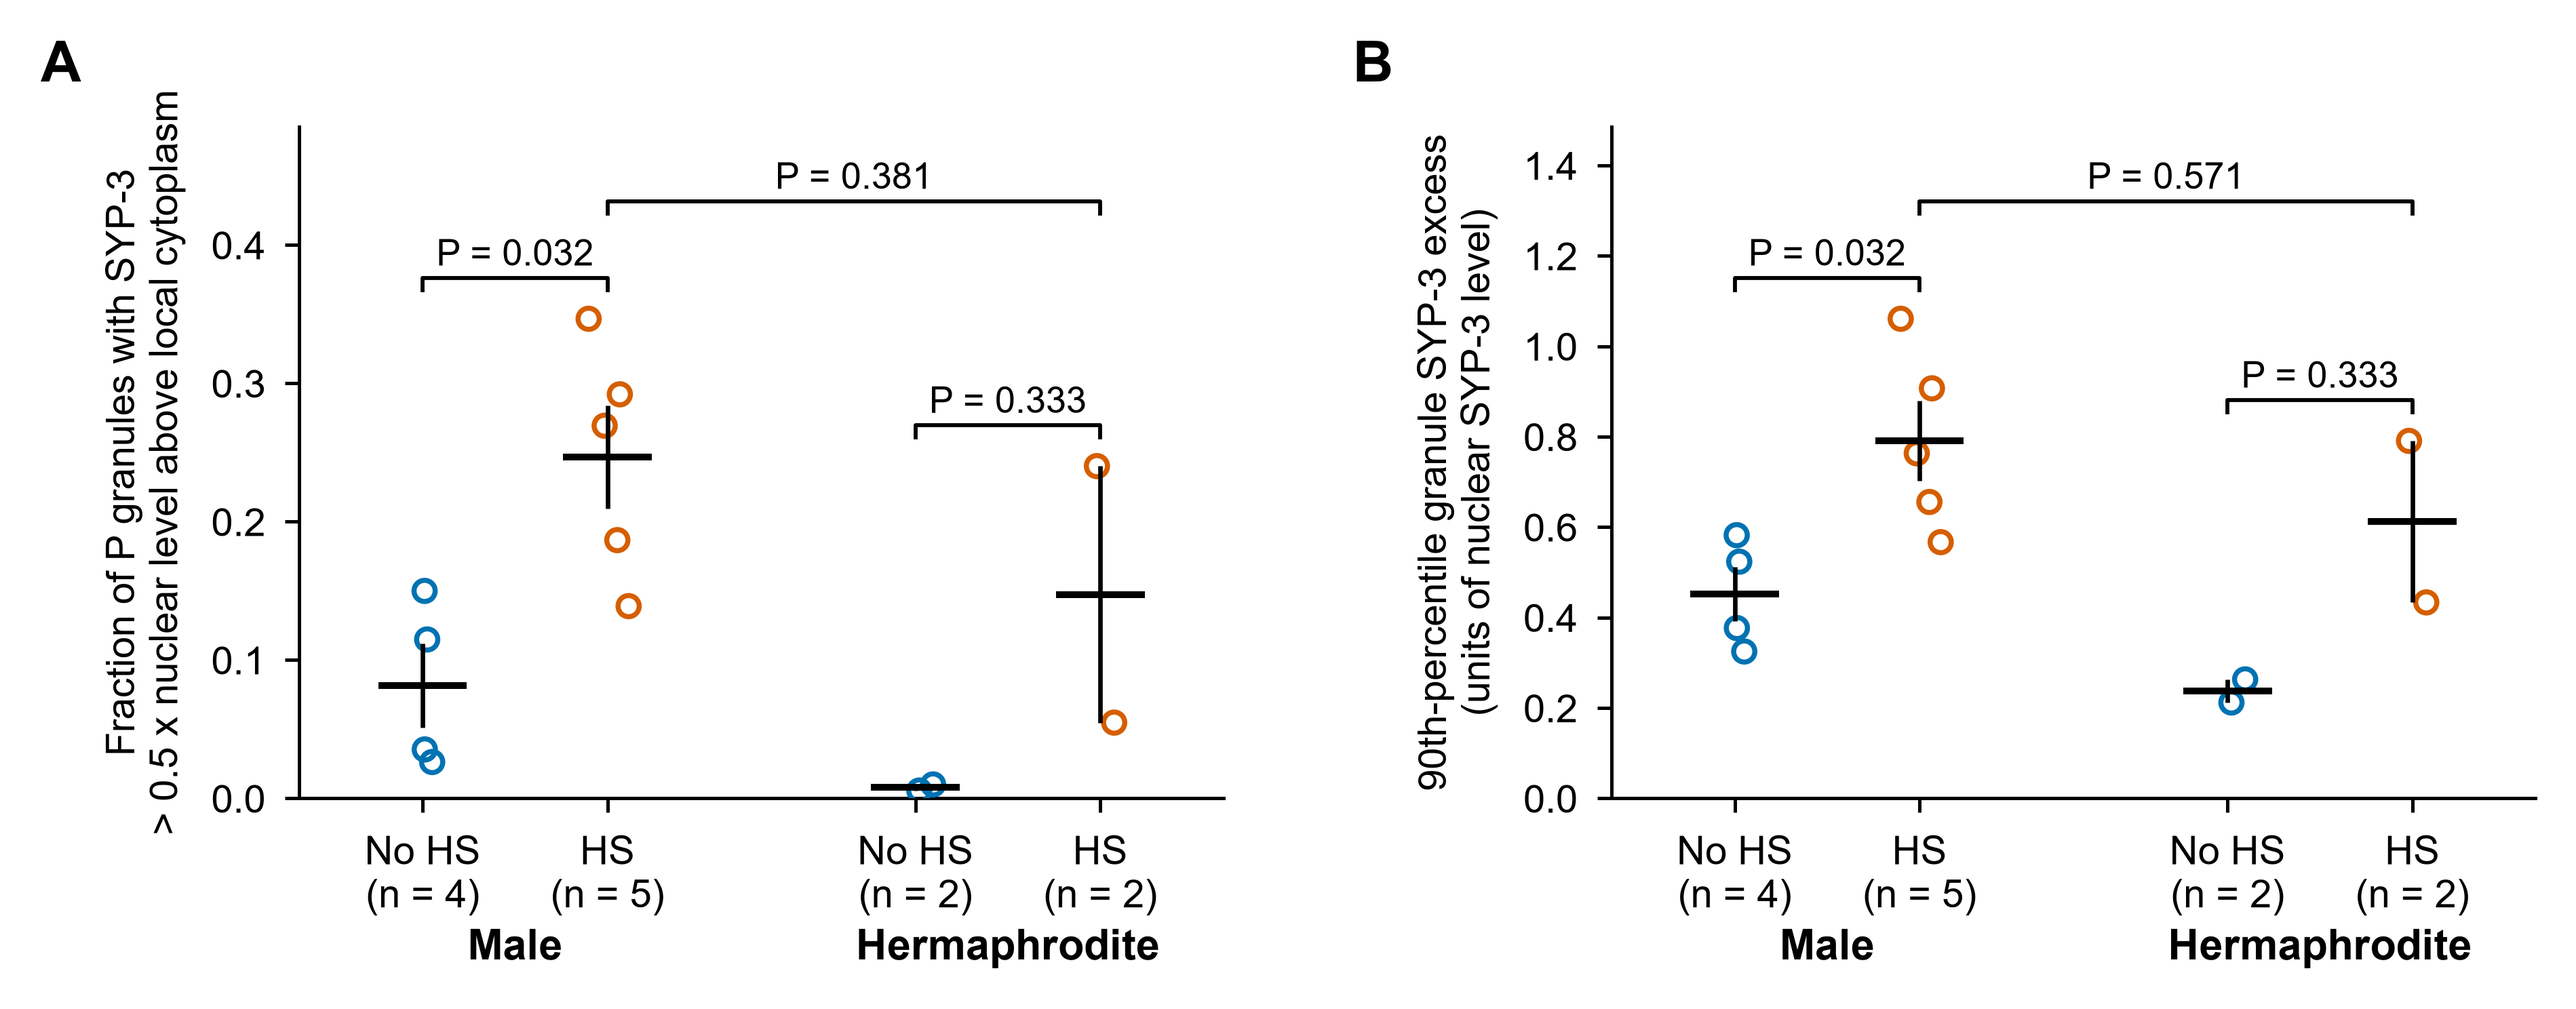
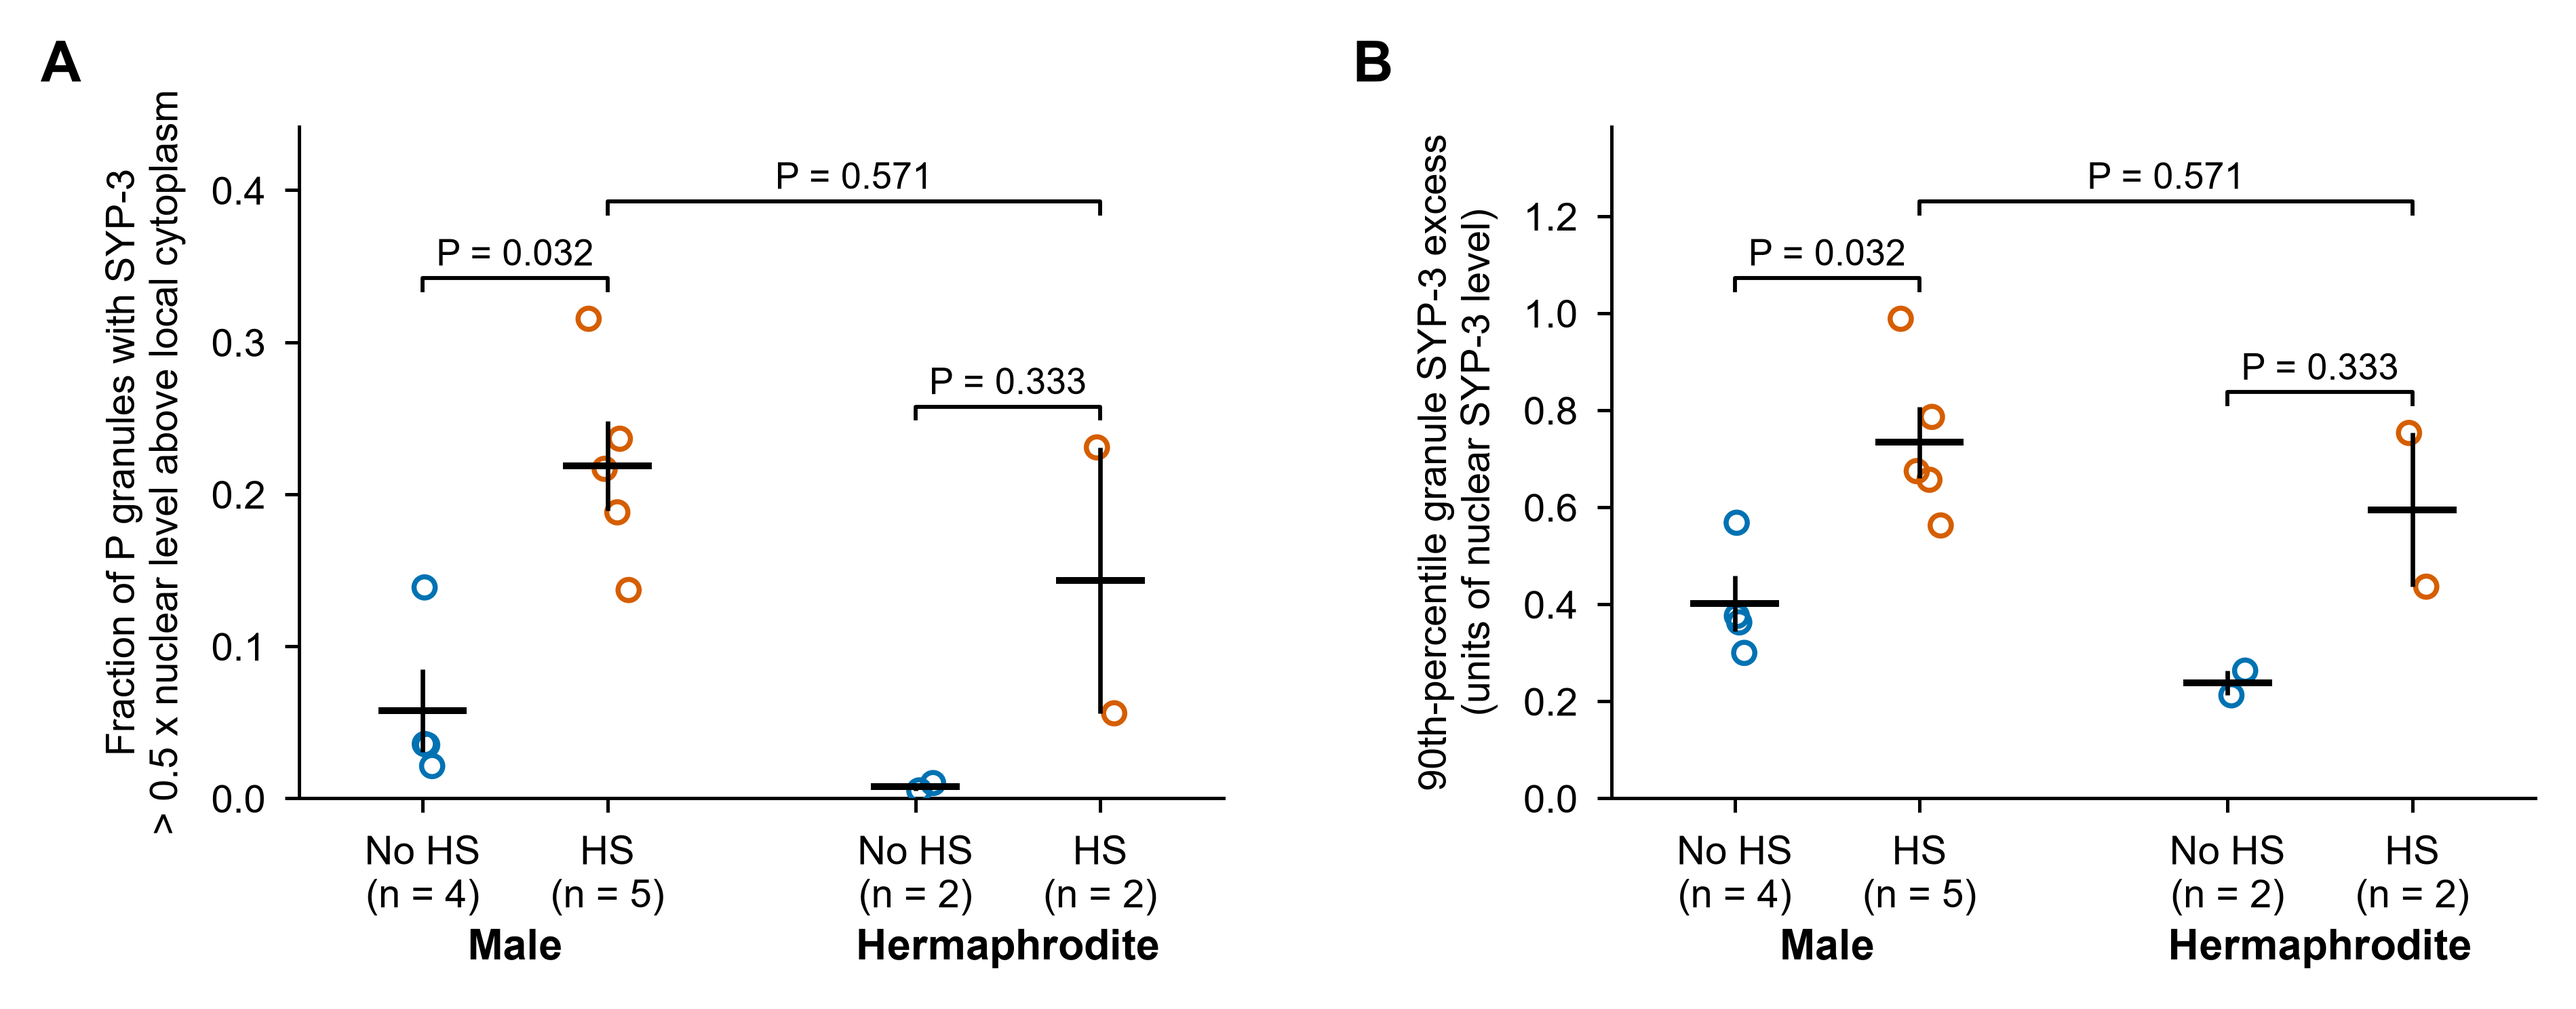
analysis(coloc): lit-fraction table and figure 6 rerun with no-envelope labels removed (granule_tail v4; v3 kept)

diff --git a/analysis/coloc/scripts/tail_by_distance.py b/analysis/coloc/scripts/tail_by_distance.py
@@ -1,4 +1,4 @@
-"""Two questions from the per-granule v3 table (granule_tail_pergranule_v3.parquet):
+"""Two questions from the per-granule v4 table (granule_tail_pergranule_v4.parquet):
  1. RADIUS: fraction of granules "lit" (SYP-3 excess > 0.5 nuclear) as a function of distance from the
     nuclear envelope, per group. The right detection window keeps noHS herms at ~0 (no false positives)
     and HS males high.
@@ -10,7 +10,7 @@ import pandas as pd
 from scipy import stats
 
 CA = r"C:/Users/ryane/coloc_analysis"
-g = pd.read_parquet(f"{CA}/granule_tail_pergranule_v3.parquet")
+g = pd.read_parquet(f"{CA}/granule_tail_pergranule_v4.parquet")
 g["grp"] = g.sex + " " + g.treat
 SHELLS = [(0, 0.5), (0.5, 1.0), (1.0, 1.5), (1.5, 2.0), (2.0, 2.5)]
 

diff --git a/analysis/coloc/scripts/fig_pub_tail.py b/analysis/coloc/scripts/fig_pub_tail.py
@@ -16,7 +16,7 @@ ps.apply()
 import matplotlib.pyplot as plt
 
 CA = r"C:/Users/ryane/coloc_analysis"
-d = pd.read_csv(f"{CA}/granule_tail_v3.csv")   # v3 = current per-granule pass (adds distance + PGL columns)
+d = pd.read_csv(f"{CA}/granule_tail_v4.csv")   # v4 = per-granule pass with no-envelope labels removed (adds distance + PGL columns)
 POS = {("male", "noHS"): 0.0, ("male", "HS"): 0.75, ("herm", "noHS"): 2.0, ("herm", "HS"): 2.75}
 
 fig, axes = plt.subplots(1, 2, figsize=(7.09, 2.5))

diff --git a/analysis/coloc/README.md b/analysis/coloc/README.md
@@ -13,7 +13,7 @@ shock, built on top of the germquant pipeline outputs (Cellpose nuclei + germlin
 | `scripts/trace_pachytene.py` | pop-up tool to draw the pachytene region per gonad (scroll = z-planes, m = max projection); writes `staging/zones` |
 | `scripts/rezone_all.py` | re-derive zones from saved traces after any change to the zoning rule |
 | `scripts/pc_zone_worker.py` | early / mid / late pachytene partition coefficients from the traced zones |
-| `scripts/granule_tail.py`, `scripts/tail_by_distance.py` | per-granule SYP-3 excess: fraction of granules that "light up", by distance from the envelope, with GFP bleed-through calibration |
+| `scripts/granule_tail.py`, `scripts/tail_by_distance.py` | per-granule SYP-3 excess: fraction of granules that "light up", by distance from the envelope, with GFP bleed-through calibration (v4 drops no-envelope labels first) |
 | `scripts/amount_metrics.py`, `denominator_check.py`, `exposure_sim.py` | method robustness: absolute-amount metrics, cytoplasm-denominator and background variants, synthetic re-exposure |
 | `scripts/pubstyle.py`, `scripts/fig_pub_*.py` | publication figures (Arial, 180 mm, Okabe-Ito, PDF + 600 dpi PNG) |
 | `scripts/qc_mask_audit.py`, `qc_mask_zoom.py` | per-gonad nucleus-mask audit: all-depth overlay, lamin-only nucleus detection (missed rings), no-envelope test for every label; zoom with flagged ids |
@@ -33,7 +33,8 @@ shock, built on top of the germquant pipeline outputs (Cellpose nuclei + germlin
   pachytene region 1.085 v 1.311, P = 0.016, figure 1; early pachytene P = 0.016, figure 2; whole gonad
   P = 0.032, figure 1S); hermaphrodites are underpowered (n = 2 v 2, floor P = 0.333), not null.
 * The metric that matches the images is the fraction of P granules holding SYP-3 above half the nuclear
-  level: ~25% in HS males, ~8% in unshocked males, <1% in unshocked hermaphrodites.
+  level (no-envelope objects removed, `granule_tail_v4.csv`): 22% in HS males, 6% in unshocked males
+  (P = 0.032), 14% v 1% in hermaphrodites (n = 2 v 2).
 * Imaging session is the dominant covariate (the 8-Jul session amplified the HS response in both sexes);
   exposure, background choice, cytoplasm-denominator choice and GFP bleed-through were each tested and
   ruled out as drivers.
@@ -60,9 +61,9 @@ n = 5, granule-specific PC): all labels 1.158 v 1.333 (P = 0.032); no-envelope r
 region 1.085 v 1.311 (P = 0.016). Hermaphrodites (n = 2 v 2) move by +0.18 to +0.22 in every version
 (P floor 0.333). The pooled pachytene region (`pach_*` columns) is therefore figure 1, and the whole-gonad version is
 figure 1S. Figures 3 to 5 (imaging-session covariate) stay on the whole-gonad values because they
-also show the untraced, excluded gonads for context. The per-granule lit-fraction table
-(`granule_tail_v3.csv`, figure 6) uses the unfiltered label set; a no-envelope-filtered rerun
-(`granule_tail_v4.csv`) follows in a separate commit.
+also show the untraced, excluded gonads for context. The per-granule lit-fraction table and figure 6 now use
+the no-envelope-filtered envelope set (`granule_tail_v4.csv`; v3, unfiltered, is kept for the record:
+male noHS 8.2% v HS 24.7% before, 5.8% v 21.9% after, P = 0.032 both).
 
 ## Caveats
 
